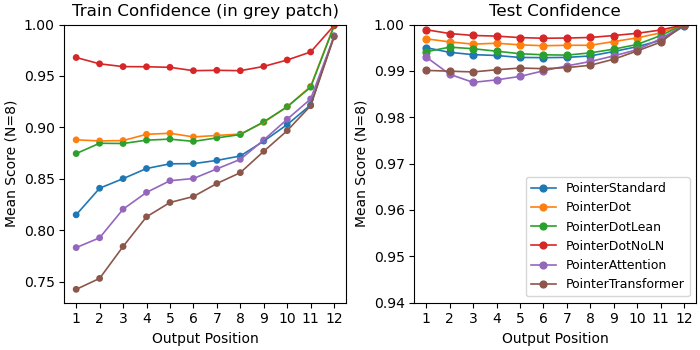
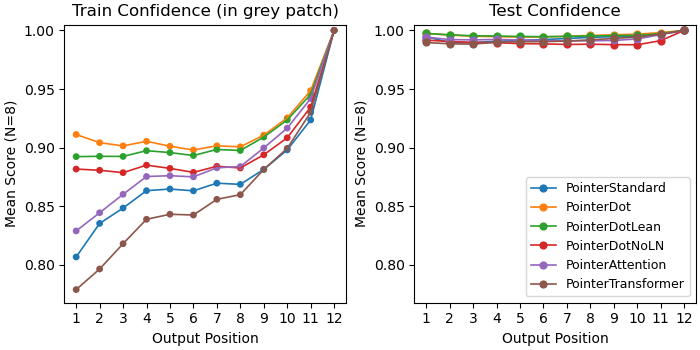
Updated plots and results

diff --git a/experiments/pointerArchitectureComparison_uneven.py b/experiments/pointerArchitectureComparison_uneven.py
@@ -277,6 +277,7 @@ def plotResults(results, args):
     ax[0].set_ylabel('Mean Reward'+n_string)
     ax[0].set_title('Training Performance')
     ax[0].set_xlim(-50, 1000)
+    ax[0].set_ylim(None, 100.05)
     ax[0].legend(loc='lower right', fontsize=9)
     yMin0, yMax0 = ax[0].get_ylim()
 
@@ -293,13 +294,9 @@ def plotResults(results, args):
     ax[1].set_ylabel('Reward'+n_string)
     ax[1].set_title('Testing Performance')
     ax[1].set_xlim(-1, len(POINTER_METHODS))
-    ax[1].set_ylim(97.95, 100.05)
+    ax[1].set_ylim(97.5, 100.05)
     ax[1].set_yticks([98, 99, 100])
 
-    idx = {val: idx for idx, val in enumerate(POINTER_METHODS)}['PointerDotLean']
-    mnDotLean = torch.min(torch.nanmean(results['testReward'][:,idx], dim=0))
-    ax[1].text(idx+0.25, 98.2, f"1 net @ {mnDotLean:.1f}", ha='left', va='center', color=cmap(idx), fontsize=10)
-    
     width = trainInspectFrom[1]-trainInspectFrom[0]
     height = yMax0 - yMin0
     rect = mpl.patches.Rectangle([trainInspectFrom[0], yMin0], width, height, facecolor='k', edgecolor='none', alpha=0.2)
@@ -339,8 +336,8 @@ def plotResults(results, args):
     yMin3, yMax3 = ax[1].get_ylim()
     
     new_ymin = min(yMin2, yMin3)
-    ax[0].set_ylim(new_ymin, 1)
-    ax[1].set_ylim(0.94, 1)
+    ax[0].set_ylim(new_ymin, 1.005)
+    ax[1].set_ylim(new_ymin, 1.005)
     
     if not(args.nosave):
         plt.savefig(str(figsPath/getFileName('confidence')))
